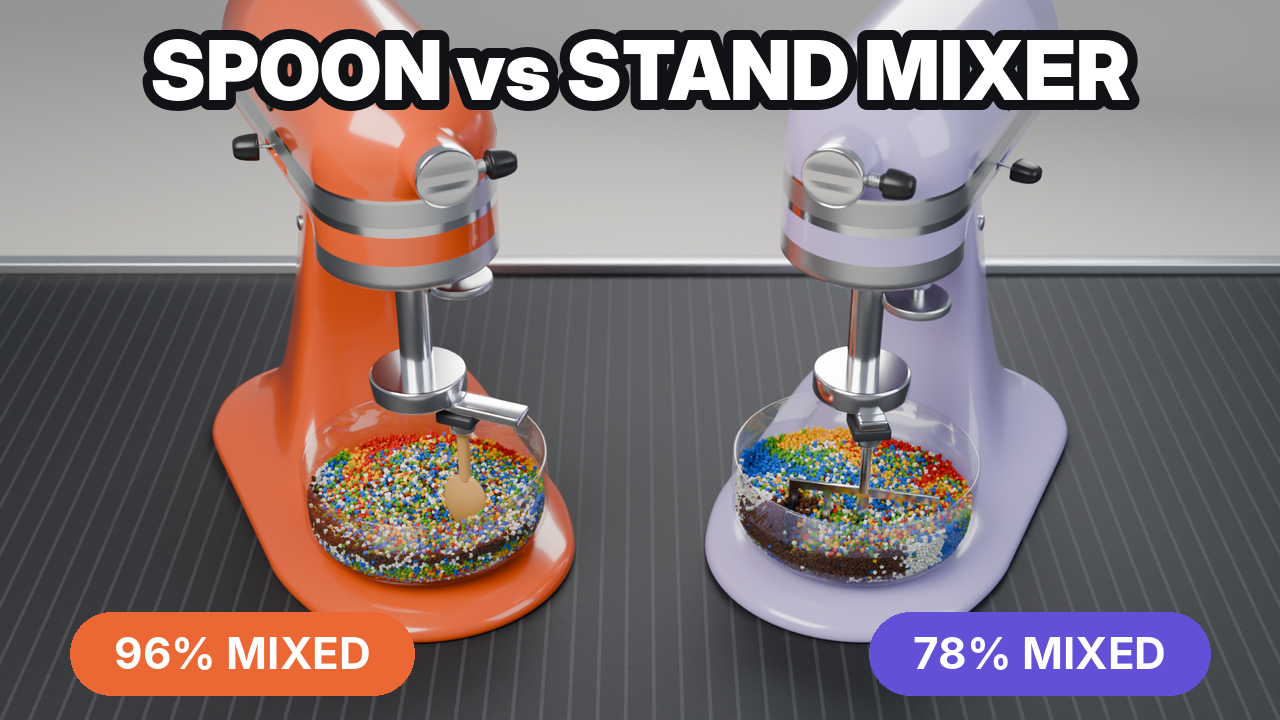
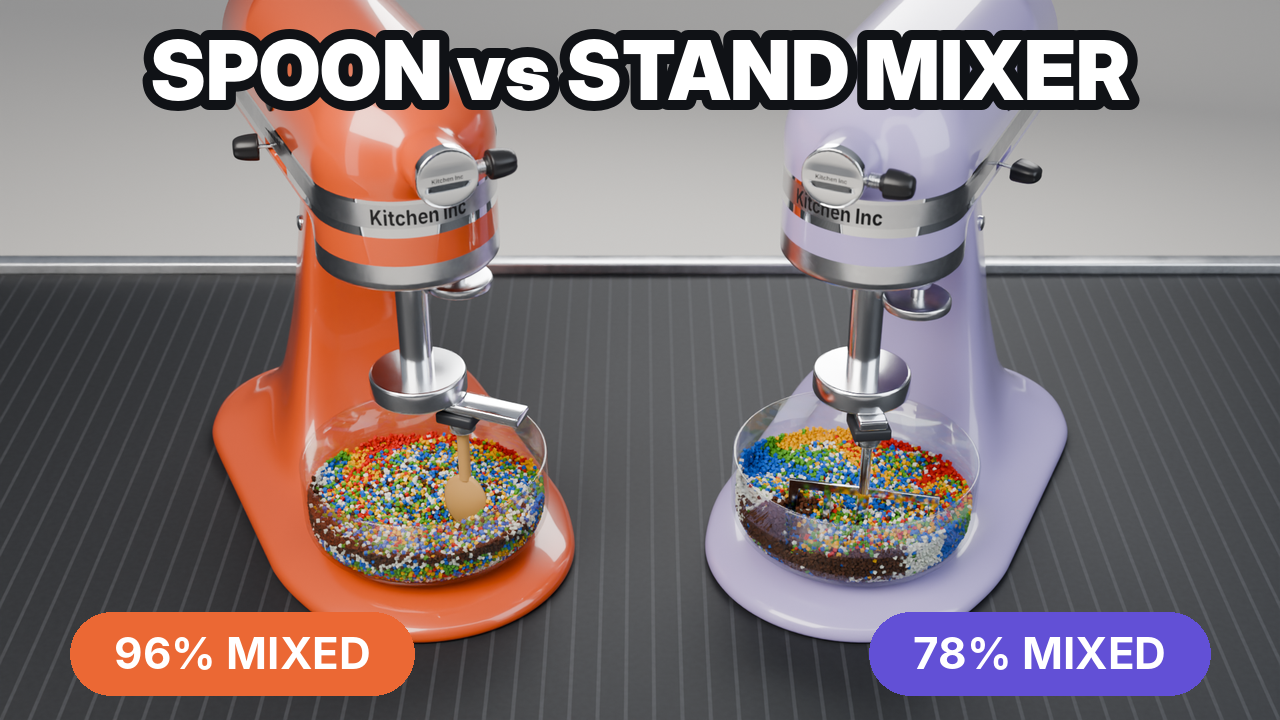
powder_mixer: thumbnail A in the current look; YouTube copy fixes
Chapters merged so each is at least 10 s (YouTube's minimum), repository link
points at the branch where the work is.

Claude-Session: https://claude.ai/code/session_01S7EUN4CGcs5VcH7QMy88q6

diff --git a/videos/copy/mix_off_YOUTUBE.md b/videos/copy/mix_off_YOUTUBE.md
@@ -10,8 +10,8 @@ wedges, then stripes, then rings), so a winner has to cope with a new problem to
   separately) or the 4K render instead.
 * `the_mix_off_1080p_HEVC.mp4`: the same film as HEVC, 99 MiB, noticeably better than the H.264 repository copy;
   the next best thing to upload if the 280 MB file is not available.
-* `the_mix_off_PREVIEW_720p.mp4`: 3:48, 1280×720, 24 fps, H.264. Earlier preview with the older metal. On-screen captions, no narration,
-  original synthesized score at −16 LUFS.
+* `the_mix_off_PREVIEW_720p.mp4`: 3:48, 1280×720, 24 fps, H.264. Earlier preview with the older metal.
+* All versions: on-screen captions, no narration, original synthesized score at −16 LUFS.
 * The 1080p file is a true 1080p render (3-D picture 1920×840, closing shots 1920×1080, 16 samples, CPU), good
   enough to upload. The 720p preview is the older 960×420 render scaled up. For 4K, render the `blender/`
   folder on a GPU machine (instructions in `videos/powder_mixer/blender/README.md`).
@@ -21,7 +21,7 @@ wedges, then stripes, then rings), so a winner has to cope with a new problem to
 
 | | Thumbnail | Title |
 |---|---|---|
-| A | `thumbnails/mix_off_thumb_A.png`: the two bowls, "SPOON vs STAND MIXER", 96% against 78% | Spoon vs Stand Mixer: We Simulated 23,000 Grains to Settle It |
+| A | `thumbnails/mix_off_thumb_A.png`: the two mixers (current look, "Kitchen Inc" bands), "SPOON vs STAND MIXER", 96% against 78% | Spoon vs Stand Mixer: We Simulated 23,000 Grains to Settle It |
 | B | `thumbnails/mix_off_thumb_B.png`: eight top-down bowls, "8 WAYS TO MIX. 1 WINNER." | 8 Ways to Mix Dry Ingredients, Ranked by Physics |
 | C | `thumbnails/mix_off_thumb_C.png`: two top-down bowls, "SAME SPOON.", 98% against 17% | Same Spoon, Same Bowl: 98% Mixed vs 17% |
 
@@ -50,8 +50,7 @@ And then some satisfying blending: four bowls loaded as coloured squares, a smil
 What this is, and is not
 Every tool, hand tools included, hangs from the same stand mixer, so the only thing that differs between two bowls is the tool and the way it moves. Each method has its own colour: mixer, score bar and chart line match. This is a physics simulation of dry, free-flowing grains of equal size: no clumping, no dust cloud, no butter. The bowl is a half-scale model of a 22 cm kitchen bowl. The hand tools move at 1.5 strokes a second, the stand mixer at 0.8 orbits a second, the hand mixer's beaters at 5 turns a second, which is on the slow side for a real one. Change those speeds and the machines' scores change; the hand tools' strokes-to-mix does not. There is no published experiment on spoon or whisk strokes for dry powders to check the hand-tool results against.
 
-0:00 The question
-0:05 How "% mixed" is measured, and who is playing
+0:00 The question, and how "% mixed" is measured
 0:19 Quarter-final 1: spoon vs spoon twirled in the middle
 0:38 Quarter-final 2: stand mixer, wire whip vs large paddle
 0:56 Quarter-final 3: hand mixer vs whisk
@@ -62,7 +61,7 @@ Every tool, hand tools included, hangs from the same stand mixer, so the only th
 2:37 The champion, and what it shows
 3:11 And now, some satisfying blending
 
-How it's made: the grains are simulated with position-based dynamics with friction, at a 1 ms time step. The pictures are rendered in Blender from the simulated grain positions, and every number on screen is measured from the same grains. Code, data and method: https://github.com/drburke-droid/nhl-sog-predictor/tree/master/videos/powder_mixer
+How it's made: the grains are simulated with position-based dynamics with friction, at a 1 ms time step. The pictures are rendered in Blender from the simulated grain positions, and every number on screen is measured from the same grains. Code, data and method: https://github.com/drburke-droid/nhl-sog-predictor/tree/claude/charming-dijkstra-sd3q1f/videos/powder_mixer
 
 Sources: P.M.C. Lacey, J Appl Chem 4:257 (1954). D. Brone, A. Alexander & F.J. Muzzio, AIChE J 44:271 (1998). G.R. Chandratilleke et al., Ind Eng Chem Res 49:5467 (2010). V. Boonkanokwong et al., Powder Technol 302:333 (2016). B. Jadidi et al., Processes 11:733 (2023). D.J. Pine et al., Nature 438:997 (2005).
 
@@ -74,8 +73,7 @@ Music: an original score, synthesized for this video (no samples).
 **Chapters**
 
 ```
-0:00 The question
-0:05 How "% mixed" is measured, and who is playing
+0:00 The question, and how "% mixed" is measured
 0:19 Quarter-final 1: spoon vs spoon twirled in the middle
 0:38 Quarter-final 2: stand mixer, wire whip vs large paddle
 0:56 Quarter-final 3: hand mixer vs whisk
@@ -104,7 +102,9 @@ granular flow, powder mixing, Blender, kitchen science, food science, simulation
 * The last bowl is the YouTube icon drawn in powder and stirred away. YouTube's brand guidelines ask that the
   logo is not altered, so this is your call; swapping it for another pattern is one line in `make_film.py`
   (`SATISFYING`) and a 20-minute re-render of that shot.
-* The repository link in the description points at `master`; the work is on the branch
-  `claude/charming-dijkstra-sd3q1f` until it is merged.
+* The repository link in the description points at the branch `claude/charming-dijkstra-sd3q1f`, where the
+  work is. Change it to `master` once the branch is merged, and delete the line if the repository is private
+  (viewers would get a 404).
+* Chapters: YouTube needs every chapter to be at least 10 seconds, so the opening is one chapter (0:00 to 0:19).
 * The score was synthesized and checked for level (−16 LUFS) and clipping, but nobody has listened to it.
   Listen before publishing, or replace it.
